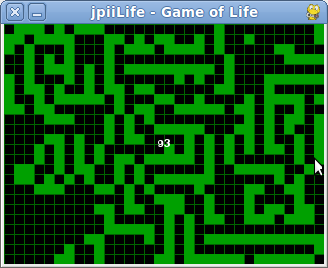
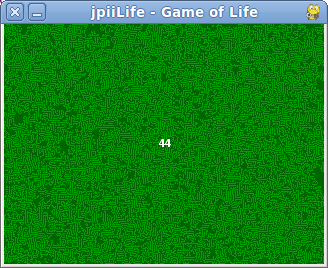
added new screenshot. added life end scenario, stops counting and calculating. added support for command line parameters

diff --git a/jpiilife/jpiilife.py b/jpiilife/jpiilife.py
@@ -14,19 +14,46 @@
 # (C) 2010 Juhapekka Piiroinen
 ############################################################################################
 import pygame,pygame.locals,sys,random
+import getopt
 
 global board
 board = dict()
 global score
 score = 0
-
 resolution = (320,240)
+cellsize = 1
+
+
+def usage():
+    print "USAGE: jpiilife.py --width=320 --height=240 --cell=10"
+
+if len(sys.argv)<2:
+    usage()
+    sys.exit(2)
+    
+try:
+    optlist,args = getopt.getopt(sys.argv[1:],None,["width=","height=","cell="])
+except getopt.GetoptError, err:
+    print str(err)
+    usage()
+    sys.exit(2)
+
+newresolution = {resolution[0]:"", resolution[1]:""}
+for o,a in optlist:
+    if o=="--width":
+        newresolution['width'] = int(a)
+    elif o=="--height":
+        newresolution['height'] = int(a)
+    elif o=="--cell":
+        cellsize = int(a)
+resolution = (newresolution['width'],newresolution['height'])
+
 pygame.font.init()
 font = pygame.font.Font(None, 17)
 
 
-for row in range(0,63):
-    for col in range(0,63):
+for row in range(0,resolution[0]/cellsize):
+    for col in range(0,resolution[1]/cellsize):
         board[(row,col)] = random.randint(0,1)
 
 def get_cell(ncell):
@@ -86,6 +113,7 @@ def calculateNeighbours(cell):
 
 def updateCells():
     global board
+    updateCount = 0
     for cell in board:
         neighbours = calculateNeighbours(cell)
         #print score
@@ -93,26 +121,33 @@ def updateCells():
         if board[cell]==1:
             if not score in [2,3]:
                 board[cell] = 0
+                updateCount+=1
         elif board[cell]==0:
             if score==3:
                 board[cell] = 1
+                updateCount+=1
+    return updateCount
 
 pygame.init()
 pygame.display.set_caption("jpiiLife - Game of Life")
 window = pygame.display.set_mode(resolution)
 screen = pygame.display.get_surface()
 cycle = 0
+updateCount = 1
 while True:
+    if (updateCount>0):
+        updateCount = updateCells()
+
     screen.fill((0,0,0),(0,0,resolution[0],resolution[1]))
-    updateCells()
-    for x in range(0,resolution[0],10):
+
+    for x in range(0,resolution[0],cellsize):
         pygame.draw.line(screen,(0,100,0),(x,0),(x,resolution[1]))
-    for y in range(0,resolution[1],10):
+    for y in range(0,resolution[1],cellsize):
         pygame.draw.line(screen,(0,100,0),(0,y),(resolution[0],y))
     
     for cell in board:
         x,y = cell
-        w,h = 10,10
+        w,h = cellsize,cellsize
         if (board[cell]==1):
             screen.fill((0,160,0),(x*w,y*h,w,h))
     
@@ -132,4 +167,5 @@ while True:
     for event in events:
         if (event.type == pygame.locals.QUIT or event.type == pygame.locals.KEYDOWN):
             sys.exit(0)
-    cycle += 1
+    if updateCount>0:
+        cycle += 1
